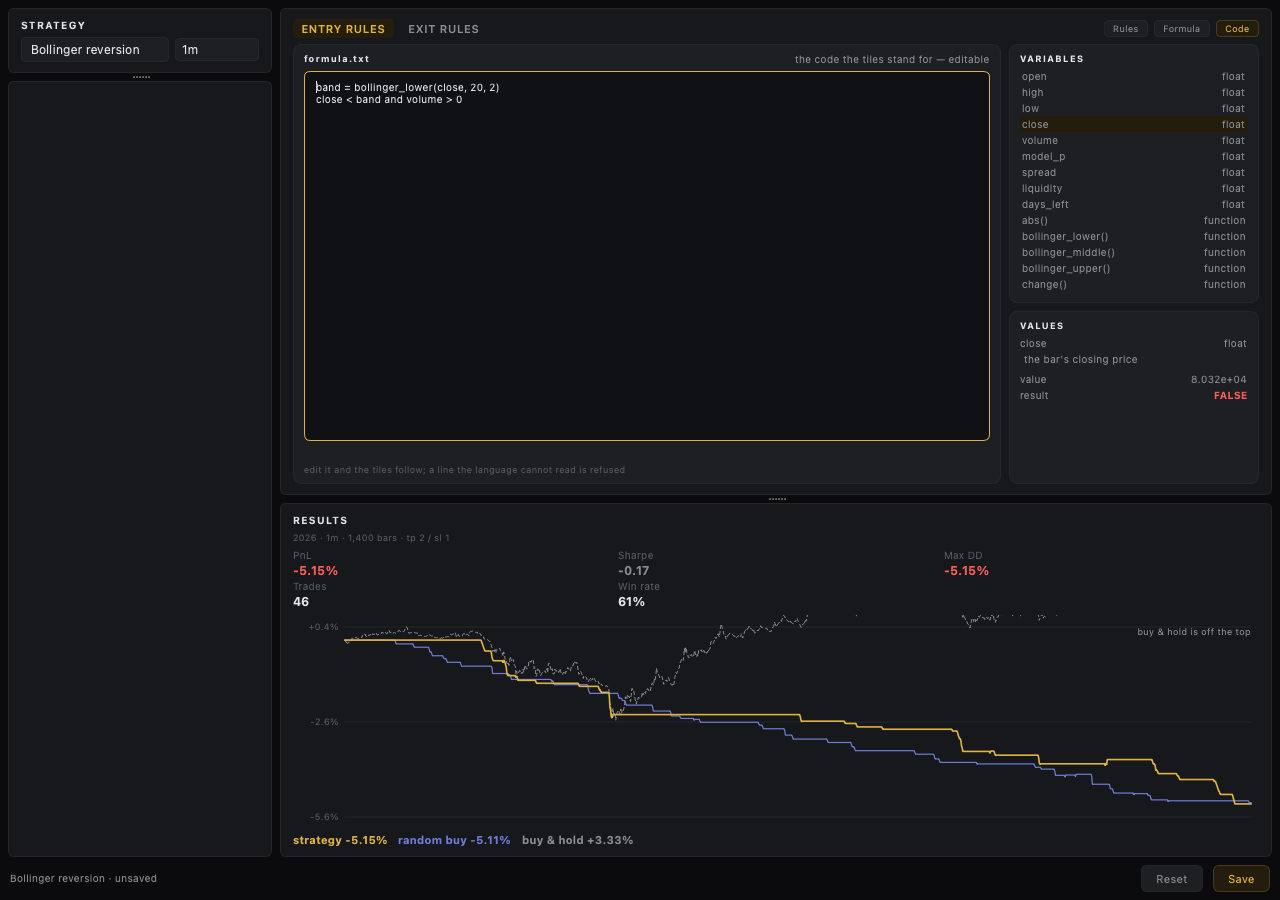
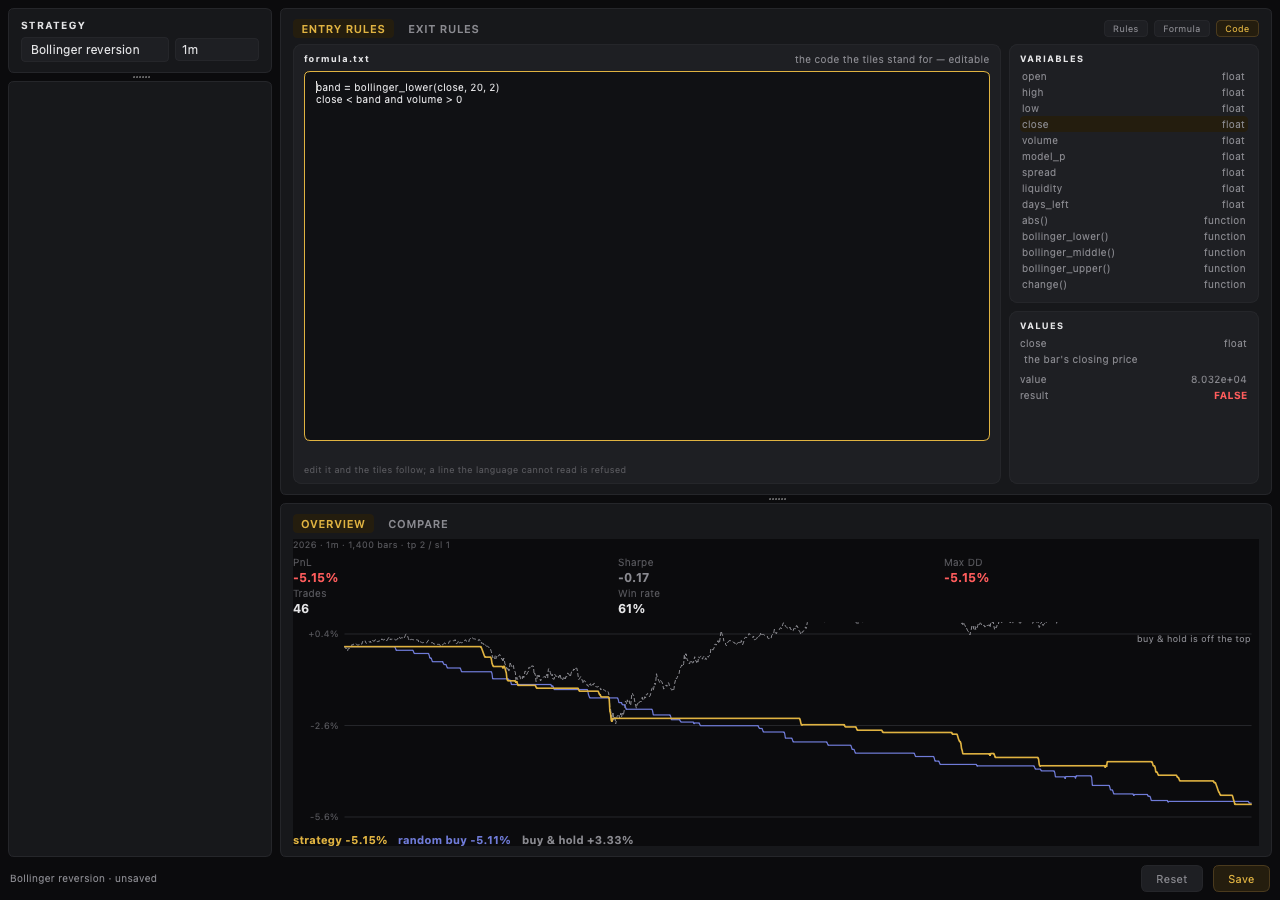
Give the builder's results tile two subwindows
OVERVIEW and COMPARE, switched by their names the way ENTRY / EXIT switch in
the rules tile. OVERVIEW is the numbers and the curves, and is the default;
COMPARE is an empty page set aside for putting two runs side by side.

diff --git a/src/lalala/strat_report.py b/src/lalala/strat_report.py
@@ -17,13 +17,16 @@ from __future__ import annotations
 
 from dataclasses import dataclass
 
-from PySide6.QtCore import QPointF, QRectF, Qt
+from PySide6.QtCore import QPointF, QRectF, Qt, Signal
 from PySide6.QtGui import QColor, QPainter, QPen
 from PySide6.QtWidgets import (
+    QButtonGroup,
     QGridLayout,
     QHBoxLayout,
     QLabel,
+    QPushButton,
     QSizePolicy,
+    QStackedWidget,
     QVBoxLayout,
     QWidget,
 )
@@ -207,19 +210,73 @@ def _percent(value: float) -> str:
 
 
 class ReportTile(Card):
-    """The rule's numbers in two rows, then its curve against two others."""
+    """The run's numbers and its curves, over two subwindows.
+
+    `OVERVIEW` is what the rule did; `COMPARE` is set aside for putting two
+    runs side by side. Their names are the switch, the way ENTRY / EXIT switch
+    in the rules tile, and each keeps its own content.
+    """
+
+    side_changed = Signal(str)
+
+    SIDES = (("overview", "OVERVIEW"), ("compare", "COMPARE"))
 
     def __init__(self, parent: QWidget | None = None) -> None:
         super().__init__(parent)
+        self.current_side = "overview"
 
-        title = QLabel("RESULTS", self)
-        title.setObjectName("tileTitle")
-        self.body.addWidget(title)
+        # The two subwindows are switched by their names, as in the rules
+        # tile: one lit, the other a quiet invitation.
+        header = QHBoxLayout()
+        header.setContentsMargins(0, 0, 0, 0)
+        header.setSpacing(6)
+        self.sides = QButtonGroup(self)
+        self.sides.setExclusive(True)
+        self.side_buttons: dict[str, QPushButton] = {}
+        for index, (key, label) in enumerate(self.SIDES):
+            button = QPushButton(label, self)
+            button.setObjectName("sideButton")
+            button.setProperty("side", key)
+            button.setCheckable(True)
+            button.setChecked(index == 0)
+            button.setCursor(Qt.CursorShape.PointingHandCursor)
+            self.sides.addButton(button, index)
+            self.side_buttons[key] = button
+            header.addWidget(button)
+        header.addStretch(1)
+        self.sides.idClicked.connect(self._pick_side)
+        self.body.addLayout(header)
 
-        self.note = QLabel("no rule yet", self)
+        # One page per subwindow, only one on show.
+        self.pages = QStackedWidget(self)
+        self.pages.setObjectName("resultsStack")
+        self.pages.addWidget(self._overview_page())
+        self.pages.addWidget(self._compare_page())
+        self.pages.setCurrentIndex(0)
+        self.body.addWidget(self.pages, 1)
+
+        self.entry_rule = None
+        self.exit_rule = None
+        self.resolution = "1h"
+        self.tp = PREVIEW_TP
+        self.sl = PREVIEW_SL
+        # What the rule's names read on the newest bar, for the panel beside
+        # the editor: (values, result).
+        self.watch: tuple = ({}, None)
+
+    # -- the subwindows ----------------------------------------------------
+
+    def _overview_page(self) -> QWidget:
+        page = QWidget(self)
+        page.setObjectName("resultsPage")
+        layout = QVBoxLayout(page)
+        layout.setContentsMargins(0, 0, 0, 0)
+        layout.setSpacing(6)
+
+        self.note = QLabel("no rule yet", page)
         self.note.setObjectName("hintLabel")
         self.note.setWordWrap(True)
-        self.body.addWidget(self.note)
+        layout.addWidget(self.note)
 
         # Five numbers, two rows: PnL, Sharpe, max drawdown, then the two
         # counting ones.
@@ -232,9 +289,9 @@ class ReportTile(Card):
             ("PnL", "Sharpe", "Max DD", "Trades", "Win rate")
         ):
             row, column = divmod(index, 3)
-            label = QLabel(caption, self)
+            label = QLabel(caption, page)
             label.setObjectName("fieldLabel")
-            value = QLabel("—", self)
+            value = QLabel("—", page)
             value.setObjectName("metricValue_text")
             value.setFont(mono_font(9, bold=True))
             grid.addWidget(label, row * 2, column)
@@ -242,10 +299,10 @@ class ReportTile(Card):
             self._metrics.append((label, value))
         for column in range(3):
             grid.setColumnStretch(column, 1)
-        self.body.addLayout(grid)
+        layout.addLayout(grid)
 
-        self.chart = CurveChart(self)
-        self.body.addWidget(self.chart, 1)
+        self.chart = CurveChart(page)
+        layout.addWidget(self.chart, 1)
 
         # The legend reads along the bottom, under the lines it names.
         legend = QHBoxLayout()
@@ -257,22 +314,55 @@ class ReportTile(Card):
             ("random", "random buy"),
             ("hold", "buy & hold"),
         ):
-            label = QLabel(caption, self)
+            label = QLabel(caption, page)
             label.setObjectName(f"legend_{key}")
             label.setFont(mono_font(8, bold=True))
             legend.addWidget(label)
             self.legend[key] = label
         legend.addStretch(1)
-        self.body.addLayout(legend)
+        layout.addLayout(legend)
+        return page
 
-        self.entry_rule = None
-        self.exit_rule = None
-        self.resolution = "1h"
-        self.tp = PREVIEW_TP
-        self.sl = PREVIEW_SL
-        # What the rule's names read on the newest bar, for the panel beside
-        # the editor: (values, result).
-        self.watch: tuple = ({}, None)
+    def _compare_page(self) -> QWidget:
+        """The second subwindow. Set aside: two runs will sit here."""
+        page = QWidget(self)
+        page.setObjectName("resultsPage")
+        layout = QVBoxLayout(page)
+        layout.setContentsMargins(0, 0, 0, 0)
+        layout.setSpacing(6)
+
+        self.compare_note = QLabel("nothing to compare yet", page)
+        self.compare_note.setObjectName("hintLabel")
+        self.compare_note.setWordWrap(True)
+        layout.addWidget(self.compare_note)
+        layout.addStretch(1)
+
+        self.compare_message = QLabel(
+            "put two runs side by side here", page
+        )
+        self.compare_message.setObjectName("emptyNote")
+        self.compare_message.setAlignment(Qt.AlignmentFlag.AlignCenter)
+        self.compare_message.setWordWrap(True)
+        layout.addWidget(self.compare_message, 1)
+        layout.addStretch(1)
+        return page
+
+    def side(self) -> str:
+        return self.current_side
+
+    def set_side(self, key: str) -> None:
+        for index, (name, _) in enumerate(self.SIDES):
+            if name == key:
+                self.sides.button(index).setChecked(True)
+                self._pick_side(index)
+                return
+
+    def _pick_side(self, index: int) -> None:
+        if not 0 <= index < len(self.SIDES):
+            return
+        self.current_side = self.SIDES[index][0]
+        self.pages.setCurrentIndex(index)
+        self.side_changed.emit(self.current_side)
 
     # -- what to show ------------------------------------------------------
 

diff --git a/tests/test_report.py b/tests/test_report.py
@@ -172,3 +172,45 @@ def test_the_curve_chart_paints_before_any_run(app: QApplication) -> None:
 
     assert not chart.grab().toImage().isNull()
     chart.close()
+
+
+# -- the two subwindows ------------------------------------------------------
+
+
+def test_the_tile_has_overview_and_compare(app: QApplication) -> None:
+    tile = ReportTile()
+    tile.resize(320, 460)
+    tile.show()
+    app.processEvents()
+
+    assert [button.text() for button in tile.side_buttons.values()] == [
+        "OVERVIEW",
+        "COMPARE",
+    ]
+    for button in tile.side_buttons.values():
+        assert button.objectName() == "sideButton"
+        assert button.isCheckable() is True
+    assert tile.side_buttons["overview"].isChecked() is True
+    assert tile.pages.count() == 2
+
+    # OVERVIEW is what the rule did, and it is the one on show.
+    assert tile.side() == "overview"
+    assert tile.pages.currentWidget().isAncestorOf(tile.chart)
+    assert tile.pages.currentWidget().isAncestorOf(tile.note)
+
+    # COMPARE is set aside; switching shows it, and the switch goes back.
+    picked: list[str] = []
+    tile.side_changed.connect(picked.append)
+    tile.side_buttons["compare"].click()
+    app.processEvents()
+    assert tile.side() == "compare"
+    assert tile.pages.currentIndex() == 1
+    assert tile.pages.currentWidget().isAncestorOf(tile.compare_note)
+    assert tile.compare_message.text() == "put two runs side by side here"
+    assert picked == ["compare"]
+
+    tile.set_side("overview")
+    assert tile.side() == "overview"
+    assert tile.pages.currentIndex() == 0
+    assert picked == ["compare", "overview"]
+    tile.close()

diff --git a/tools/screenshots.py b/tools/screenshots.py
@@ -98,6 +98,16 @@ def builder(app: QApplication) -> None:
         "band = bollinger_lower(close, 20, 2)\nclose < band and volume > 0"
     )
 
+    # Results: the two subwindows. Overview first, then Compare.
+    window.report.set_side("overview")
+    _settle(app)
+    _save(window.report, "part-report.png")
+    window.report.set_side("compare")
+    _settle(app)
+    _save(window.report, "part-report-compare.png")
+    window.report.set_side("overview")
+    _settle(app)
+
     # Rules: the presets gallery, first of the three tabs.
     window.entry_tile.set_mode("rules")
     _settle(app)
@@ -124,11 +134,20 @@ def builder(app: QApplication) -> None:
 
 
 def main() -> None:
+    import sys
+
     app = QApplication.instance() or QApplication([])
     apply_dark_theme(app)
-    terminal(app)
-    backtest(app)
-    builder(app)
+    # Optionally name which ones to rebuild: `... builder` skips the terminal
+    # and the backtest. No names means all of them.
+    wanted = set(sys.argv[1:])
+    for name, build in (
+        ("terminal", terminal),
+        ("backtest", backtest),
+        ("builder", builder),
+    ):
+        if not wanted or name in wanted:
+            build(app)
 
 
 if __name__ == "__main__":

diff --git a/src/lalala/theme.py b/src/lalala/theme.py
@@ -73,6 +73,9 @@ QStatusBar::item {{ border: none; }}
 #rulesStack {{
     background-color: transparent;
 }}
+#resultsStack {{
+    background-color: transparent;
+}}
 #venuePanel QLabel {{
     background-color: transparent;
     color: {TEXT_MUTED};
@@ -652,6 +655,10 @@ QPushButton#createStrategy:hover {{
 #venuePanel QLabel#hintLabel {{
     color: {TEXT_FAINT};
     font-size: 9px;
+}}
+#venuePanel QLabel#emptyNote {{
+    color: {TEXT_FAINT};
+    font-size: 10px;
 }}
 #venuePanel QCheckBox#paramToggle {{
     color: {TEXT_MUTED};

diff --git a/README.md b/README.md
@@ -511,7 +511,14 @@ back as one tile holding `20` and `2`, not a run of separate chips.
 
 ### Results tile
 
-![The results tile: the strategy, random-buy and buy & hold curves, as return since the start](docs/images/part-results.png)
+![The results tile on Overview: the strategy, random-buy and buy & hold curves, as return since the start](docs/images/part-report.png)
+
+The tile has **two subwindows**, switched by their names the way ENTRY / EXIT
+switch in the rules tile: **OVERVIEW** — the numbers and the curves — and
+**COMPARE**, set aside for putting two runs side by side. Only one is on show
+at a time; `OVERVIEW` is the default and `COMPARE` is an empty page for now.
+
+![The results tile on Compare: the empty page set aside for two runs](docs/images/part-report-compare.png)
 
 Under the two rules, the report says what the rule did over the candles already on disk. It
 takes the newest year in the store, keeps the tail of it (1,200 bars in view,
@@ -588,6 +595,8 @@ walk's job, later.
 walk when the two are joined.
 
 ## Results tile
+
+![The backtest window's results tile: the three curves revealed as the walk runs](docs/images/part-results.png)
 
 Under the parameters, three curves are drawn live as the loop walks:
 **strategy** (amber), **random buy** (indigo) and **buy & hold** (grey dashed),
